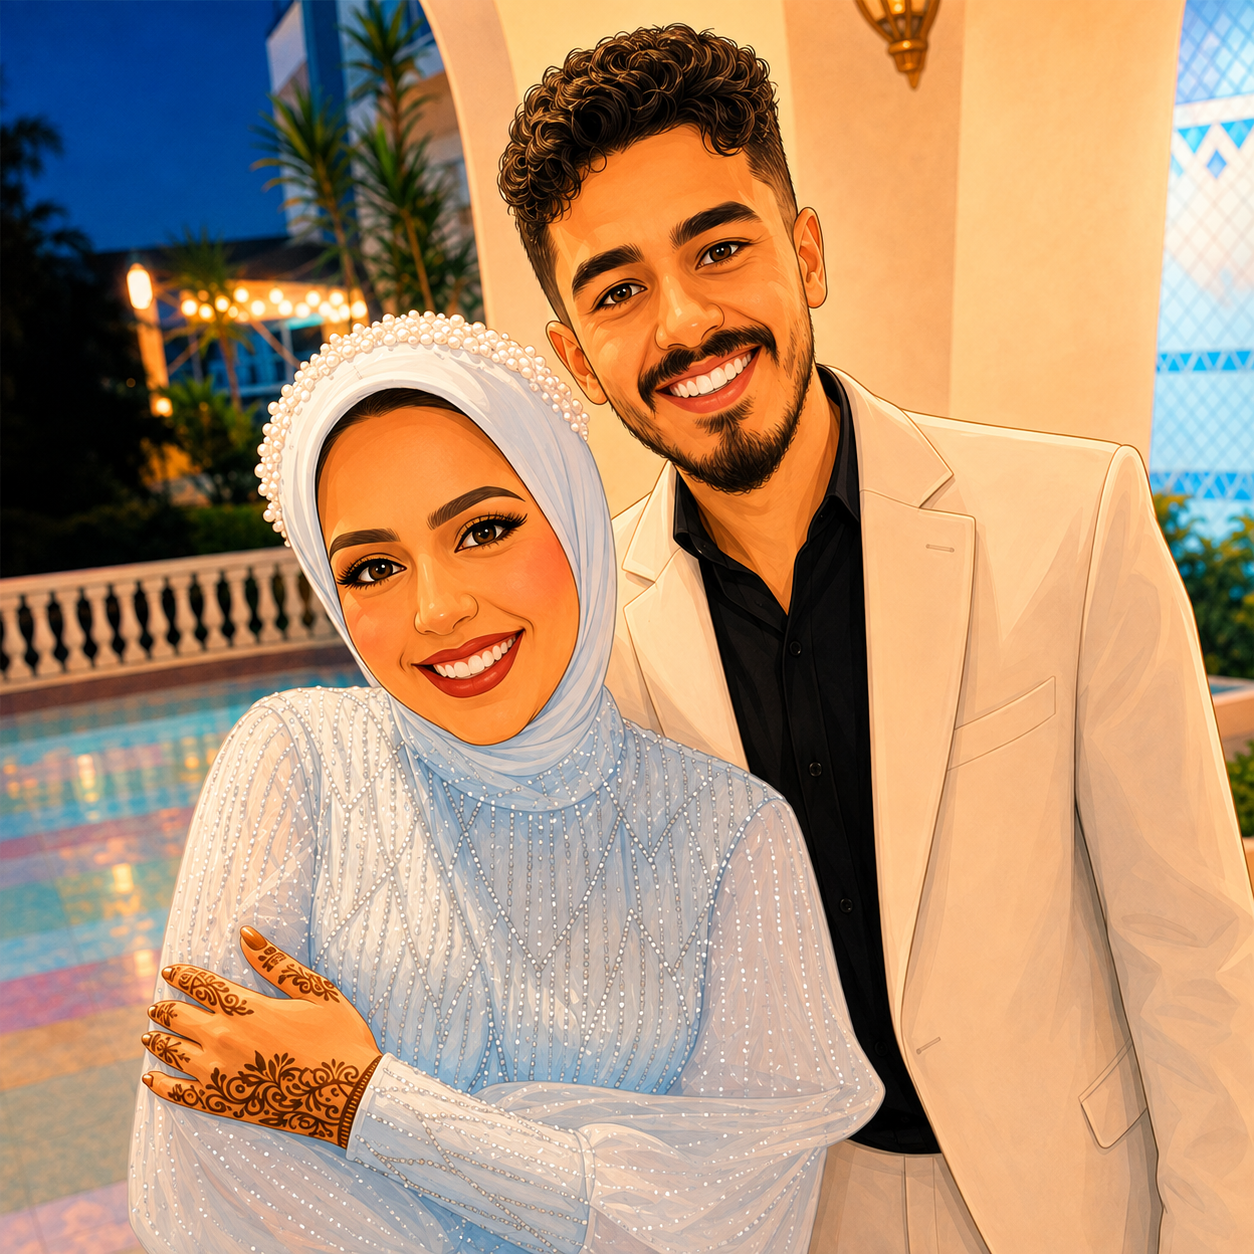
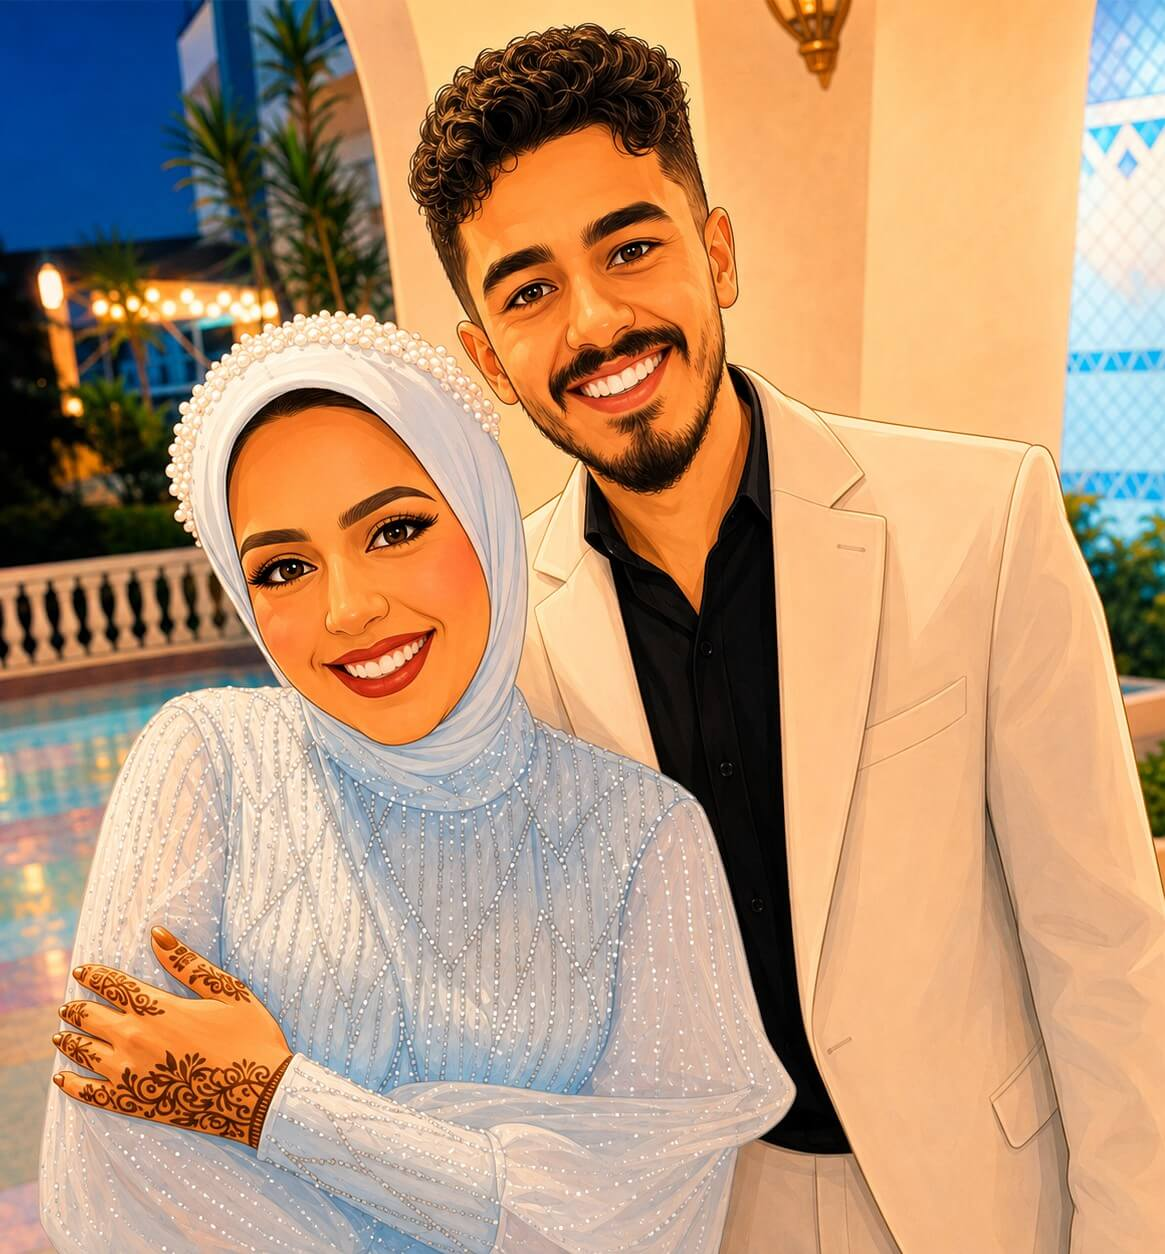
photo

diff --git a/src/data/weddingData.js b/src/data/weddingData.js
@@ -44,7 +44,7 @@ const weddingData = {
   // Single combined childhood photo — replaces the old two-photo layout.
   childhood: {
     title: { en: "Long before forever had a name.", ar: "من زمان... وقبل ما نعرف إن الحكاية هتجمعنا." },
-    photo: asset("assets/images/childhood/childhood.jpg"),
+    photo: asset("assets/images/childhood/childhood.png"),
   },
 
   events: {
